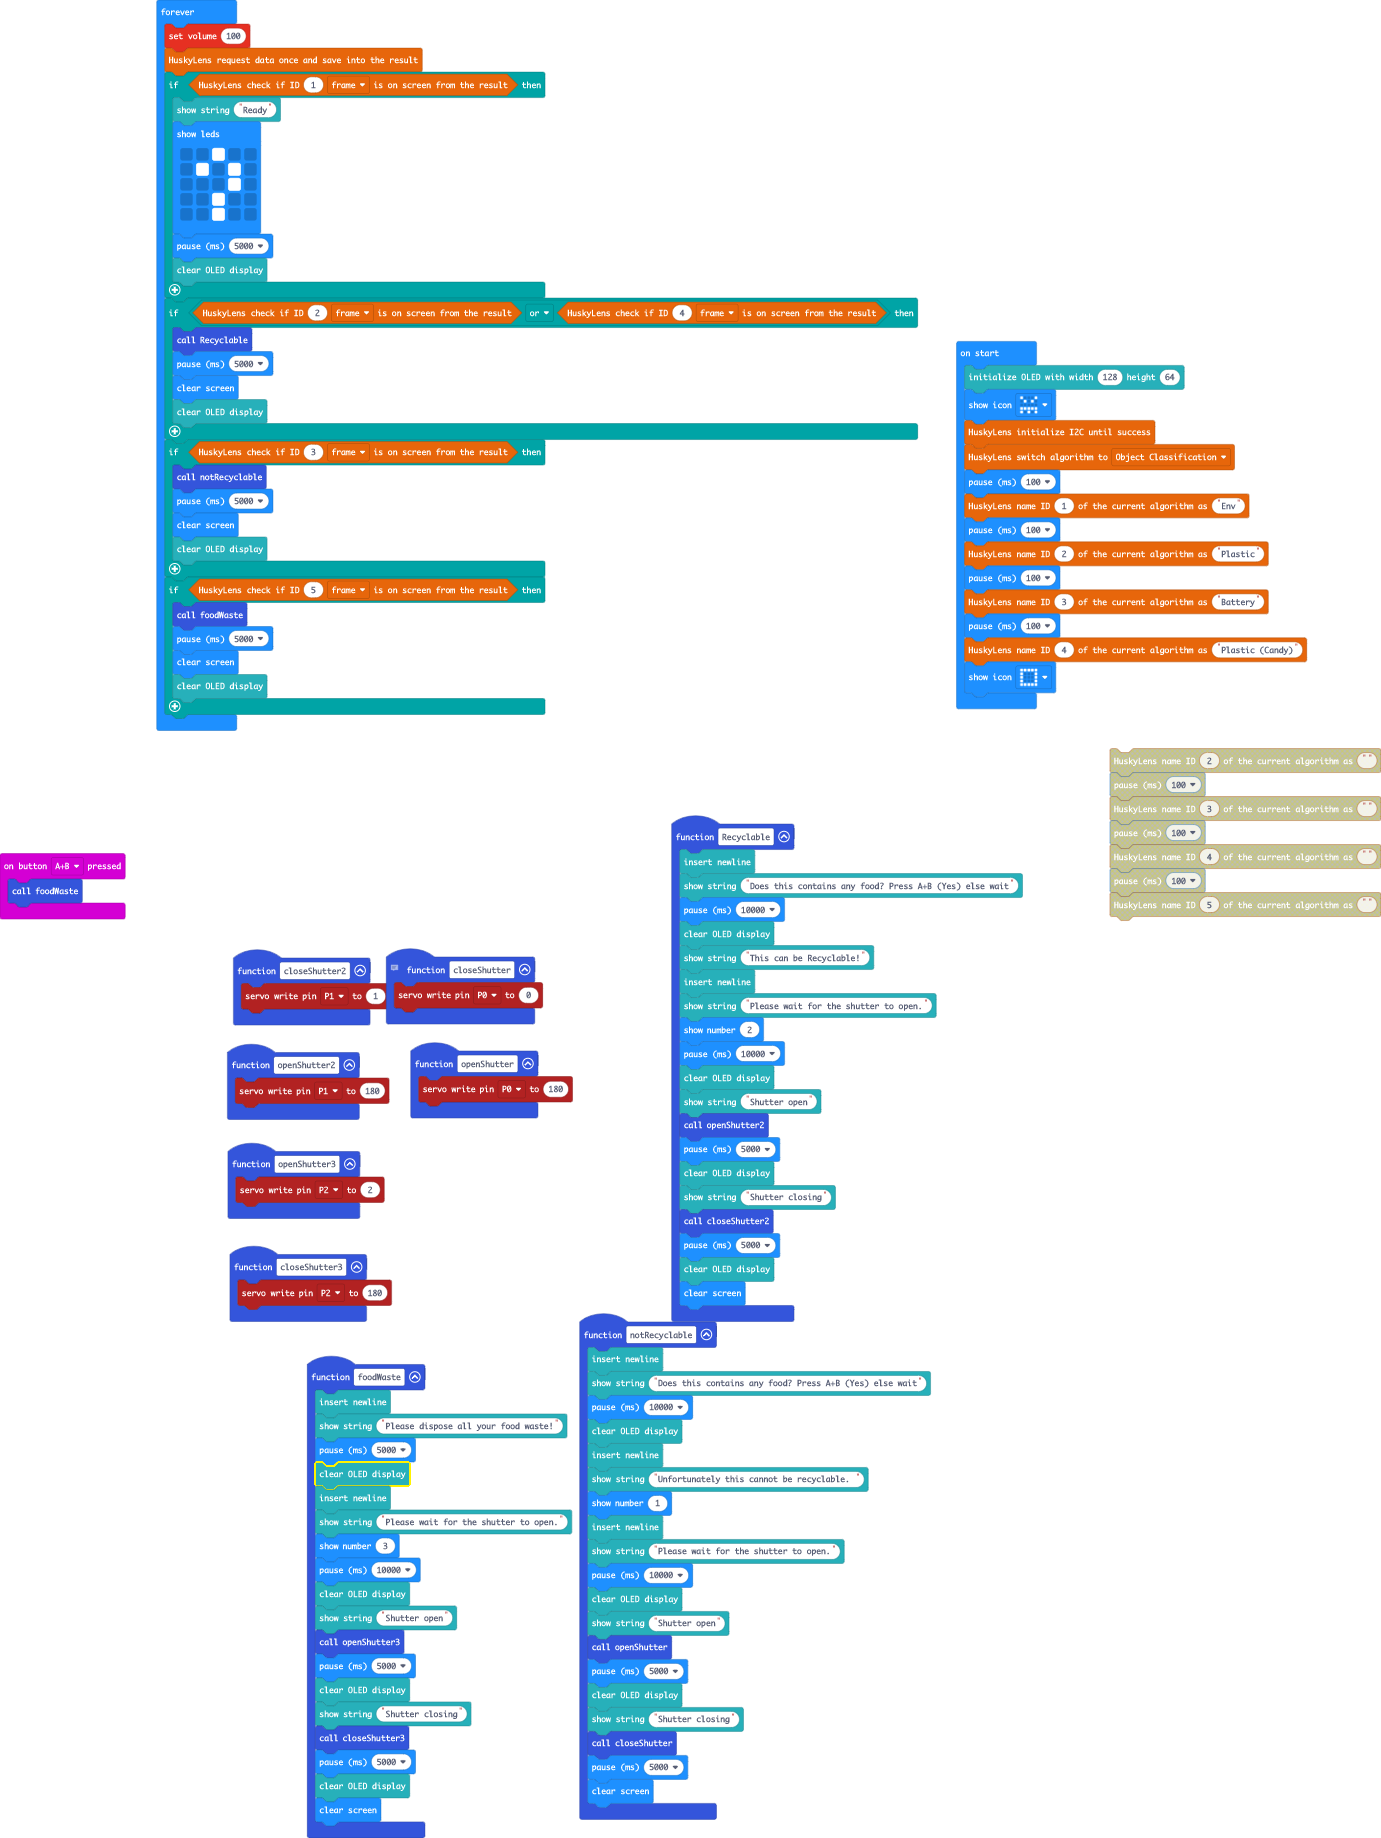
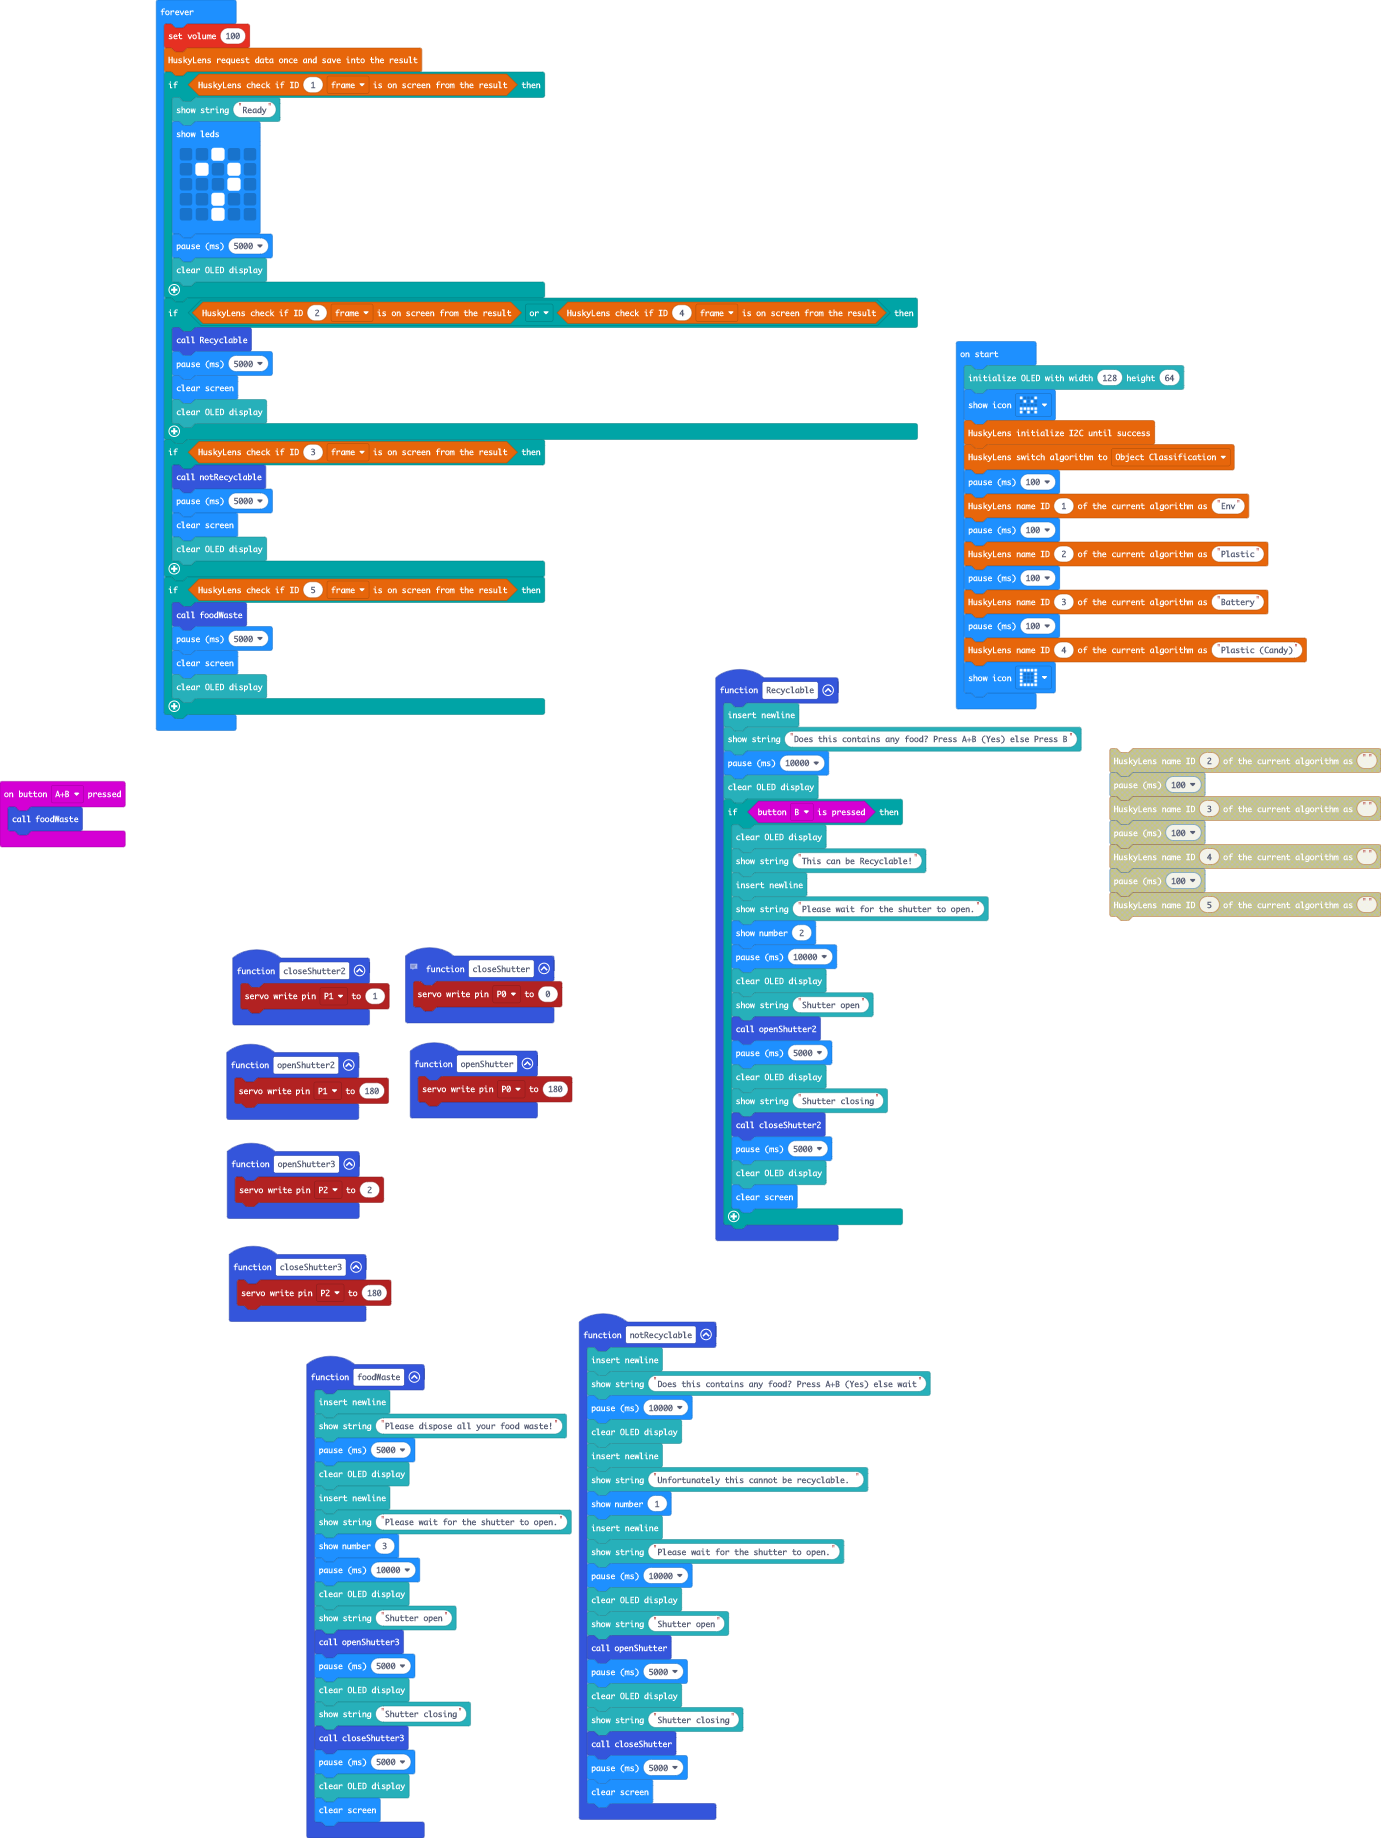
everything should be working fine :?

diff --git a/main.ts b/main.ts
@@ -72,24 +72,27 @@ function openShutter () {
 }
 function Recyclable () {
     OLED.newLine()
-    OLED.writeStringNewLine("Does this contains any food? Press A+B (Yes) else wait")
+    OLED.writeStringNewLine("Does this contains any food? Press A+B (Yes) else Press B")
     basic.pause(10000)
     OLED.clear()
-    OLED.writeStringNewLine("This can be Recyclable!")
-    OLED.newLine()
-    OLED.writeStringNewLine("Please wait for the shutter to open.")
-    basic.showNumber(2)
-    basic.pause(10000)
-    OLED.clear()
-    OLED.writeStringNewLine("Shutter open")
-    openShutter2()
-    basic.pause(5000)
-    OLED.clear()
-    OLED.writeStringNewLine("Shutter closing")
-    closeShutter2()
-    basic.pause(5000)
-    OLED.clear()
-    basic.clearScreen()
+    if (input.buttonIsPressed(Button.B)) {
+        OLED.clear()
+        OLED.writeStringNewLine("This can be Recyclable!")
+        OLED.newLine()
+        OLED.writeStringNewLine("Please wait for the shutter to open.")
+        basic.showNumber(2)
+        basic.pause(10000)
+        OLED.clear()
+        OLED.writeStringNewLine("Shutter open")
+        openShutter2()
+        basic.pause(5000)
+        OLED.clear()
+        OLED.writeStringNewLine("Shutter closing")
+        closeShutter2()
+        basic.pause(5000)
+        OLED.clear()
+        basic.clearScreen()
+    }
 }
 function closeShutter3 () {
     pins.servoWritePin(AnalogPin.P2, 180)
